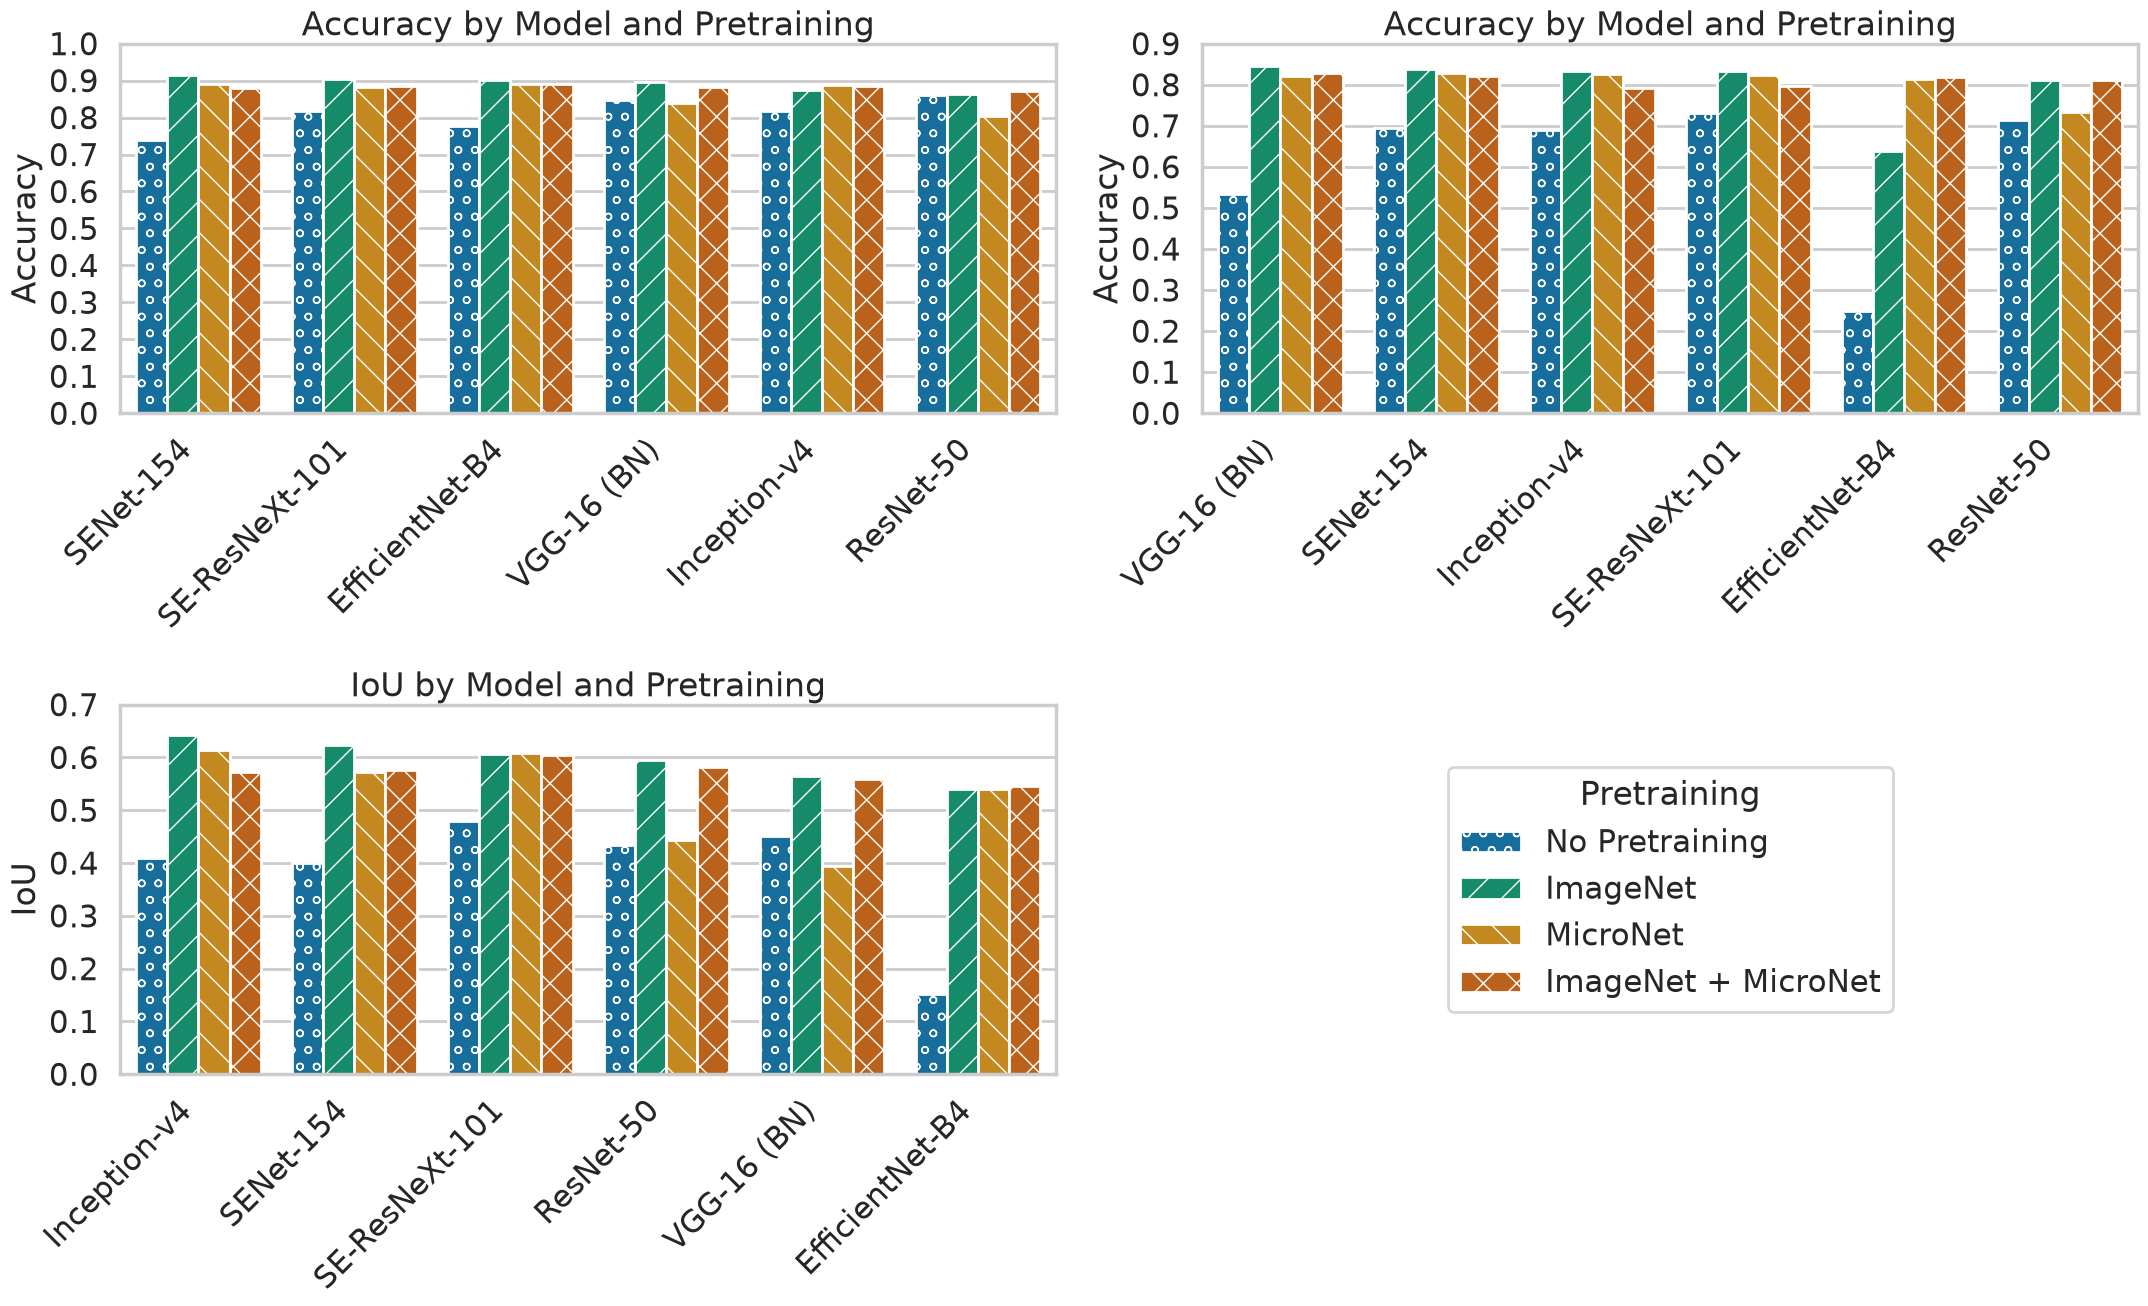
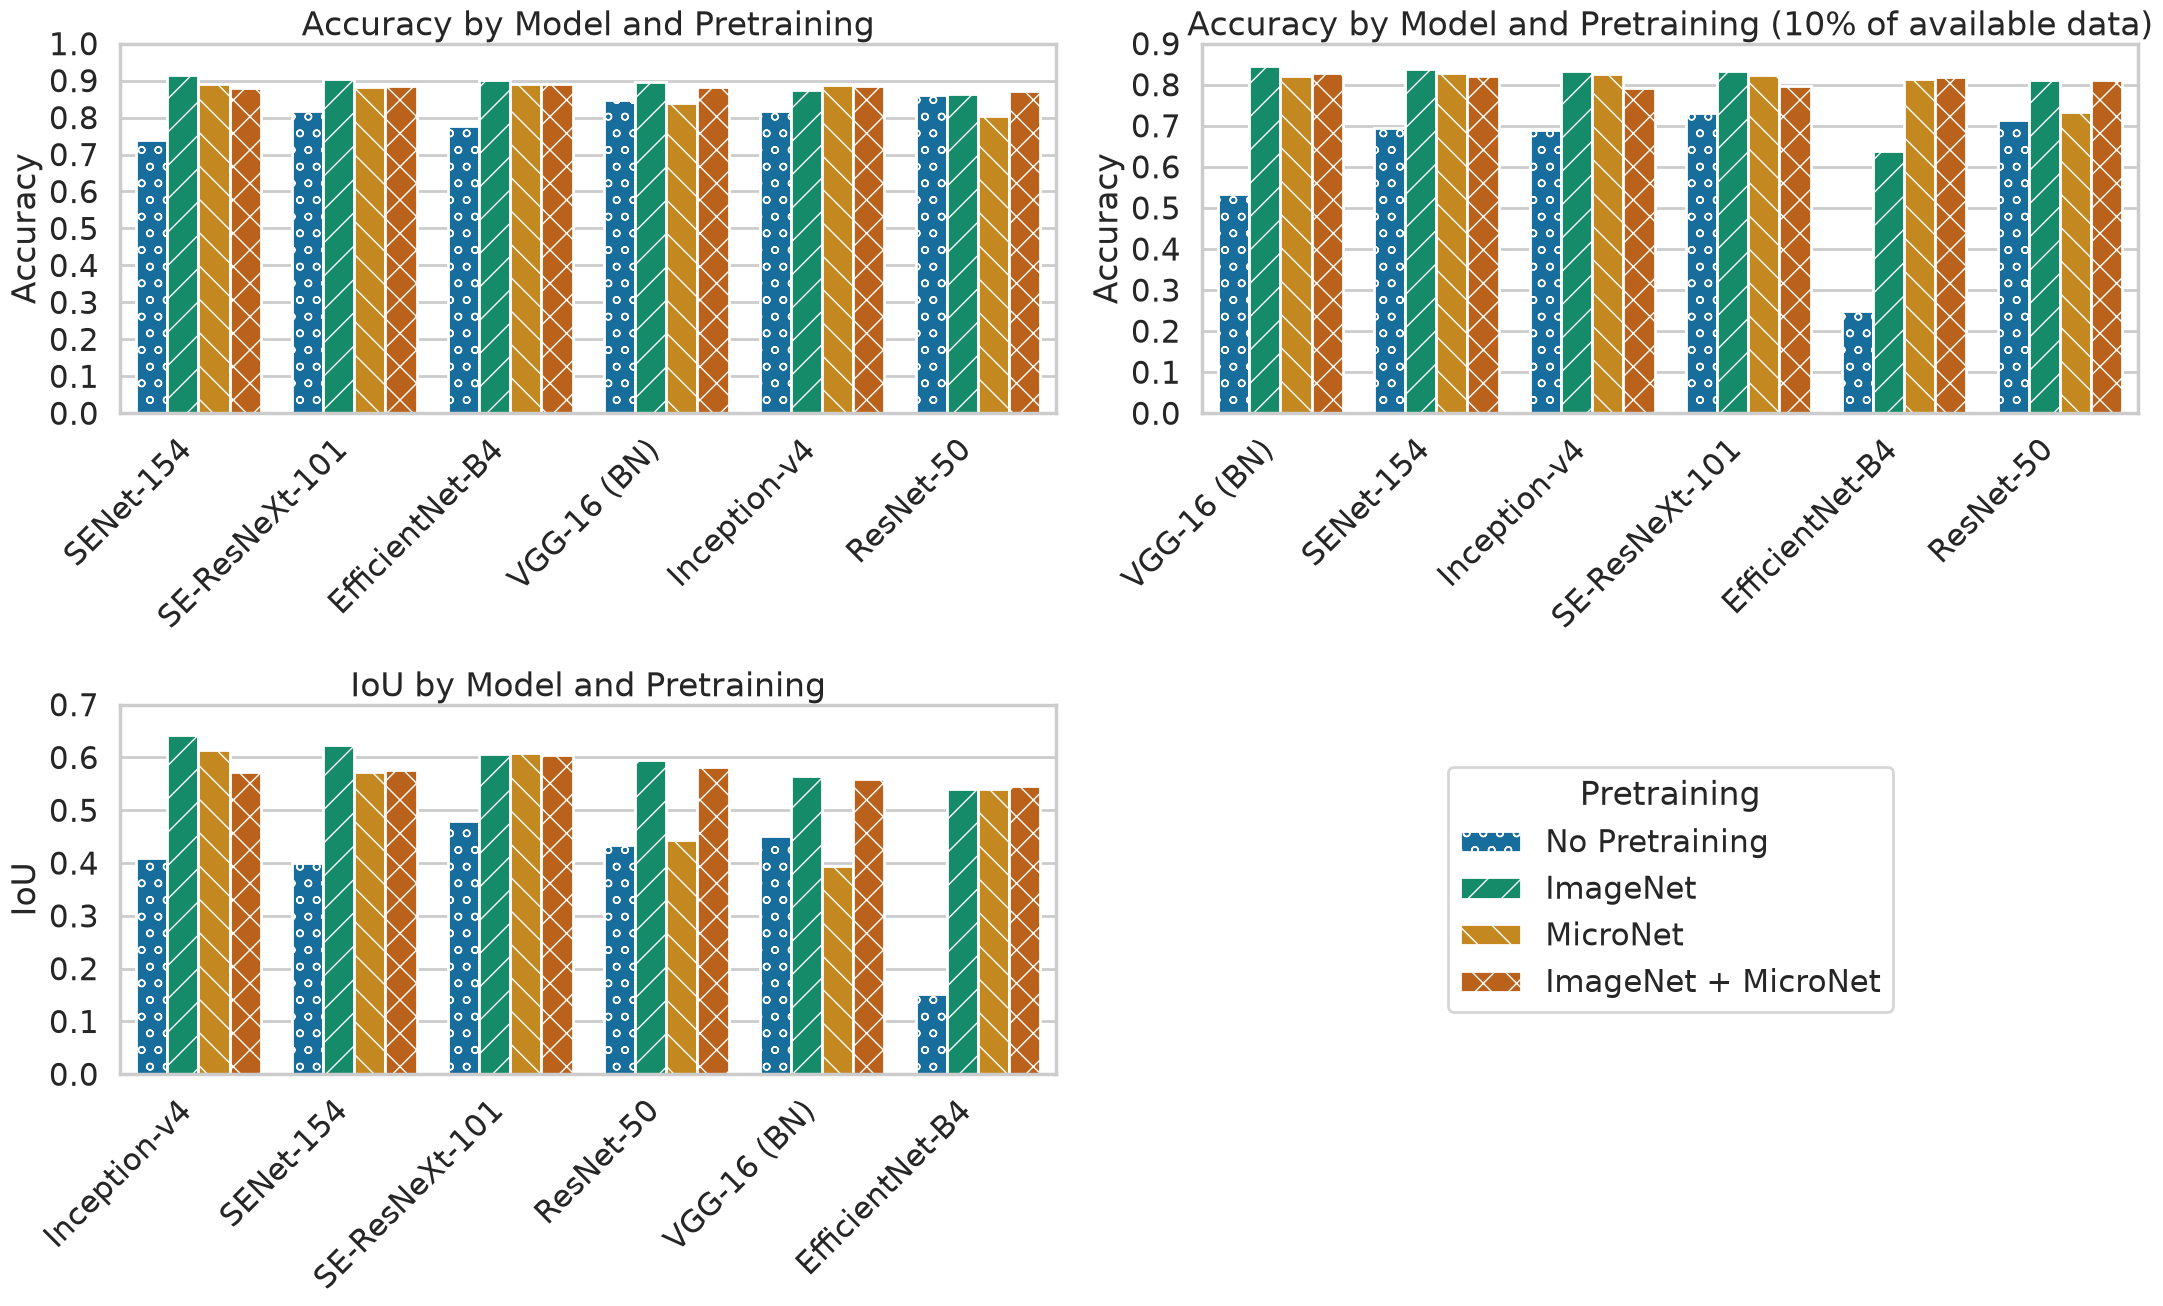
Improve README

diff --git a/README.md b/README.md
@@ -6,9 +6,9 @@
 <img src="./images/plotgrid.png" alt="Grid of bar plots displaying the results." width="800"><br>
 </p>
 
-- Pre-training improves performance across all tested models and tasks.
-- ImageNet pre-training beats domain-specific pre-training.
-- We can maintain ~90% of the performance with only 10% of the data.
+- Pretraining improves performance across all evaluated models and tasks.
+- ImageNet pretraining beats domain-specific pretraining in most considered settings.
+- We can maintain ~90% of the classification performance with only 10% of the available data (605 images).
 
 ## Usage
 
